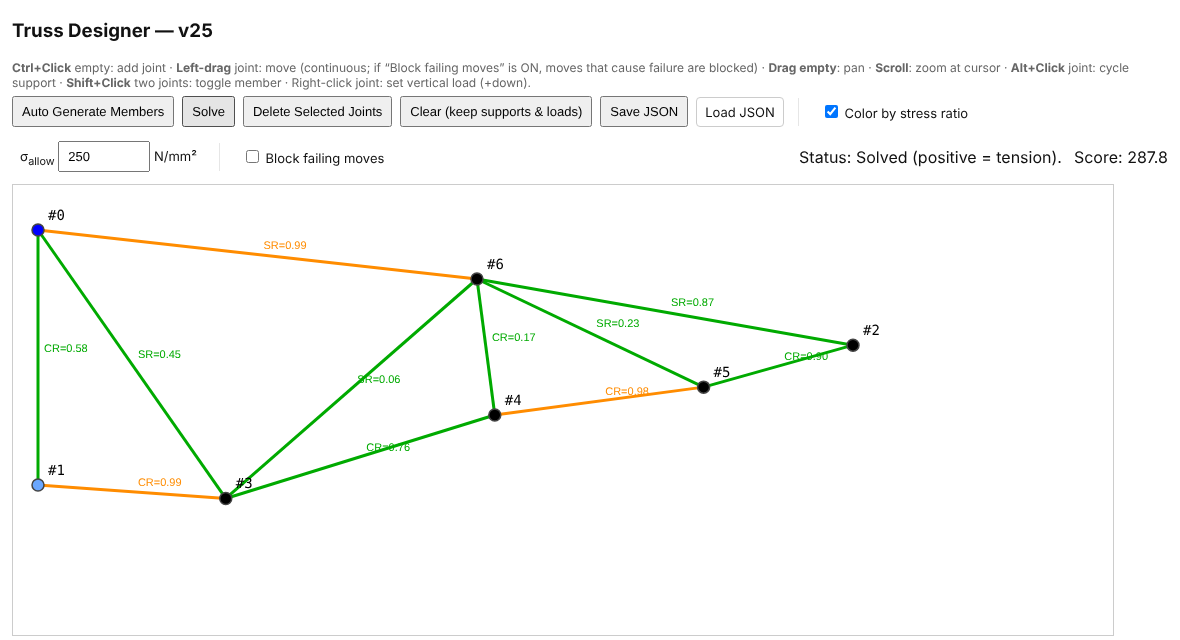
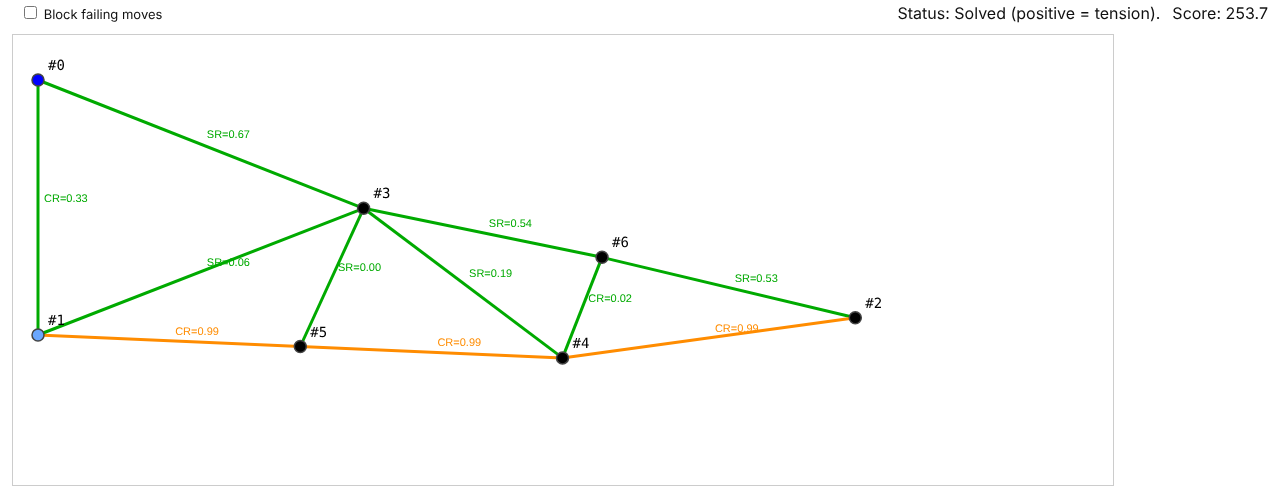
Truss: final design as default, 1.35 kN target; magnetometer: labelled board, remove isolation-amp claim

diff --git a/cantilever-truss-optimiser/src/truss-designer.html b/cantilever-truss-optimiser/src/truss-designer.html
@@ -1058,9 +1058,10 @@
   optRunBtn.onclick=runOptimization;
 
   function seed(){
+    // Default layout: the design we built, truss_model254.json (see models/final-design/).
     const data = {
-      pins: [{"x":25,"y":45,"support":"pin","load":{"x":0,"y":0},"fixX":true,"fixY":true},{"x":25,"y":300,"support":"roller-x","load":{"x":0,"y":0},"fixX":true,"fixY":true},{"x":840,"y":153.41927256375135,"support":null,"load":{"x":0,"y":-2700},"fixX":true,"fixY":false},{"x":306.0114443907691,"y":278.3371528332735,"support":null,"load":{"x":0,"y":0},"fixX":false,"fixY":false},{"x":455.95273056015026,"y":82.24771320986062,"support":null,"load":{"x":0,"y":0},"fixX":false,"fixY":false},{"x":518.6921229997934,"y":221.32338505359513,"support":null,"load":{"x":0,"y":0},"fixX":false,"fixY":false}],
-      members: [{"i":2,"k":5,"t":5},{"i":3,"k":4,"t":1},{"i":0,"k":3,"t":1},{"i":0,"k":1,"t":1},{"i":4,"k":5,"t":1},{"i":1,"k":3,"t":5},{"i":2,"k":4,"t":1},{"i":0,"k":4,"t":1},{"i":3,"k":5,"t":3}]
+      pins: [{"x":25,"y":45,"support":"pin","load":{"x":0,"y":0},"fixX":true,"fixY":true},{"x":25,"y":300,"support":"roller-x","load":{"x":0,"y":0},"fixX":true,"fixY":true},{"x":842.3,"y":282.7961861667314,"support":null,"load":{"x":0,"y":-1350},"fixX":true,"fixY":false},{"x":350.6,"y":173.3,"support":null,"load":{"x":0,"y":0},"fixX":true,"fixY":true},{"x":549.5,"y":322.9,"support":null,"load":{"x":0,"y":0},"fixX":true,"fixY":true},{"x":287.3,"y":311.5,"support":null,"load":{"x":0,"y":0},"fixX":true,"fixY":true},{"x":589.0240274431598,"y":222.334630075787,"support":null,"load":{"x":0,"y":0},"fixX":false,"fixY":false}],
+      members: [{"i":4,"k":6,"t":1},{"i":3,"k":5,"t":1},{"i":3,"k":6,"t":1},{"i":2,"k":6,"t":1},{"i":0,"k":1,"t":1},{"i":4,"k":5,"t":3},{"i":1,"k":5,"t":3},{"i":2,"k":4,"t":3},{"i":0,"k":3,"t":1},{"i":1,"k":3,"t":1},{"i":4,"k":3,"t":1}]
     };
     pins.length=0;
     for(const p of data.pins){

diff --git a/cantilever-truss-optimiser/README.md b/cantilever-truss-optimiser/README.md
@@ -6,7 +6,7 @@
 
 An open-ended design problem, done in a pair: design and build a light aluminium cantilever truss, in two parallel planes, that carries 2.7 kN over an 800 mm span, then test it to failure. We used a browser-based truss solver and evolutionary optimiser to search for light designs for one plane, built the structure, and tested it to destruction to check the model against reality.
 
-The optimiser designs a single plane for the full 2.7 kN. The real structure has two planes sharing the load, so each plane has a safety factor of 2 and the design failure load of the structure is 5.4 kN.
+The optimiser designs a single plane. Most of the saved candidates were run with the full 2.7 kN on one plane, which would give each of the two planes a safety factor of 2. The design we actually built, `truss_model254.json`, was run at 1.35 kN per plane, which is the two planes sharing 2.7 kN with no margin.
 
 ![The built truss mounted in the test rig; the mass is written on the plate](images/truss-test-rig.jpg)
 
@@ -17,23 +17,25 @@ The optimiser designs a single plane for the full 2.7 kN. The real structure has
 | Span | 800 mm |
 | Structure | Two parallel planes of aluminium angles with steel joint plates |
 | Required load | 2.7 kN in total, shared by the two planes |
-| Design load per plane in the optimiser | 2.7 kN, which gives a safety factor of 2 |
-| Design failure load | 5.4 kN |
+| Design load per plane in the optimiser | 2.7 kN for the candidates in `models/candidates-2700N/`; 1.35 kN for the design we built |
+| Design failure load of the built design | 2.7 kN (no margin) |
 | Mass of the built structure | 0.86 kg |
-| Modelled member mass of the saved candidates | 269 – 304 g per plane |
+| Modelled member mass | 254 g per plane for the built design; 269 – 304 g per plane for the 2.7 kN candidates |
 | **Measured failure load** | **550 N, about 20% of the required load** |
 
 ## The tool
 
-`src/truss-designer.html` is a single-file HTML/JavaScript app with no dependencies. Open it in a browser, use **Load JSON** to open a design from `models/`, then **Solve** or **Optimize**.
+`src/truss-designer.html` is a single-file HTML/JavaScript app with no dependencies. Open it in a browser and it starts with the design we built; use **Load JSON** to open another design from `models/`, then **Solve** or **Optimize**.
 
-![The designer showing one saved candidate: green members are below 95% of their limit and orange members are within 5% of it](images/designer-example.png)
+![The designer showing the design we built, truss_model254: green members are below 95% of their limit and orange members are within 5% of it](images/designer-example.png)
+
+**Why this design.** It was not the best-scoring candidate. We chose it because it was good enough on the model and simpler to build: the bottom chord (joints 1–5–4) and the upper chord (3–6–2) are each close to a straight line, so each could be cut from one length of angle with the intermediate joints fixed along it, instead of every member being a separate piece. Fewer separate members meant fewer joints to drill and align. The price shows in the picture: all three bottom-chord segments sit at 99% of their buckling limit.
 
 - **Solver:** a 2D pin-jointed truss, which is one plane of the structure. Joints, members, supports and the tip load are edited on a canvas. Member forces come from joint equilibrium, solved as a linear system. Members are coloured by stress ratio (tension) or by buckling ratio (compression).
 - **Sections:** five aluminium angle sizes, with cross-section areas from 27.7 to 73.2 mm². Tension is limited to σ_allow (250 N/mm² by default). Compression is limited by a buckling stress read from a slenderness curve (member length divided by section width).
 - **Optimiser:** an evolutionary search over joint positions (Gaussian mutation) and member section sizes, with crossover and elitist selection. Four presets, from Fast to Max, set the population (24 to 64), number of parents, iterations (200 to 5000), mutation sizes and an early-stopping patience.
 - **Objective:** total member mass, plus penalties for exceeding a stress or buckling limit, for members shorter than 100 mm, for joints closer than 50 mm and for crossing members.
-- **Models:** `models/candidates-2700N/` holds the saved single-plane candidates for 2.7 kN. The number in each file name is the modelled member mass in grams, so `truss_model288.json` is a 287.8 g plane. `models/starting-layouts/` holds three simple starting layouts (`tri`, `bibi` and `tribi`).
+- **Models:** `models/final-design/truss_model254.json` is the design we built, run at 1.35 kN per plane. `models/candidates-2700N/` holds the earlier single-plane candidates run at 2.7 kN. The number in each file name is the modelled member mass in grams, so `truss_model288.json` is a 287.8 g plane. `models/starting-layouts/` holds three simple starting layouts (`tri`, `bibi` and `tribi`).
 - `src/truss-multi-viewer.html` shows several saved designs side by side.
 
 ### Who wrote what
@@ -44,9 +46,9 @@ I specified the objective and the evolutionary algorithm. Most of the code was w
 
 The truss **failed by buckling at 550 N**, about 20% of the required load, because it was under-braced. The tool and its saved designs show why the model could not see this:
 
-- **No margin.** The optimiser minimises mass against its own limits, so it pushes members to the edge. Every saved candidate has two to five members at 95% or more of their calculated stress or buckling limit. Any effect the model leaves out is then enough to cause failure.
+- **No margin.** The optimiser minimises mass against its own limits, so it pushes members to the edge. Every saved candidate has two to five members at 95% or more of their calculated stress or buckling limit, and the built design has its whole bottom chord at 99% of the buckling limit. On top of that, the built design was run at 1.35 kN per plane, so the factor of 2 that the earlier candidates carried was gone. Any effect the model leaves out is then enough to cause failure.
 - **One plane only.** The model is a single plane in its own plane. Bracing between the two planes, out-of-plane buckling and joint eccentricity were not modelled, so a design can pass every check in the tool and still be under-braced.
-- **Mass was incomplete.** The objective counts member mass only, with no joint plates, fasteners or bracing. The saved candidates model 269 – 304 g of members per plane, so about 540 – 610 g for two planes. The built structure weighed 0.86 kg, so if it followed one of these candidates, about a third of its mass was never in the objective.
+- **Mass was incomplete.** The objective counts member mass only, with no joint plates, fasteners or bracing. The built design models 254 g of members per plane, about 510 g for two planes. The built structure weighed 0.86 kg, so about 40% of its mass was never in the objective.
 - **Stiffness was never calculated.** The tool has no deflection calculation, so it could not trade strength and weight against stiffness.
 
 ## If I did this again

diff --git a/magnetometer/README.md b/magnetometer/README.md
@@ -12,26 +12,31 @@ An analogue circuit that lights more LEDs as a magnet moves closer to a sensor, 
 
 *Bench test, 7 s clip: the LED row responds as a magnet is moved toward the sensor.*
 
+![The breadboard with its parts labelled](images/magnetometer-board.jpg)
+
+*The circuit on the breadboard. Signal path: sensor (8) → buffer op-amp (7) → comparator array (5), with thresholds from the resistor ladder (4), driving the LED row (6). The LTM8067 module (3) makes isolated ±5 V rails from the USB supply (1), trimmed with the pot (2).*
+
 ## How it works
 
 ```mermaid
 flowchart LR
     A[Magnet] --> B[Magnetic sensor]
-    B --> C[Isolation amplifier]
-    C --> D[Op-amp comparator array]
+    B --> C[Buffer op-amp]
+    C --> D[Comparator array: quad op-amp]
     E[Potential divider: reference thresholds] --> D
     D --> F[LED array]
 ```
 
 1. The magnetic sensor outputs a voltage that changes with field strength.
-2. An isolation amplifier passes that signal on while electrically isolating it from the rest of the circuit.
-3. An array of op-amp comparators compares the signal against a ladder of threshold voltages.
+2. A single op-amp buffers the sensor output so the comparator inputs do not load it.
+3. A quad op-amp, used as four comparators, compares the signal against a ladder of threshold voltages.
 4. A separate potential divider generates the thresholds, so each comparator switches at a different field strength.
 5. As the magnet gets closer, more thresholds are crossed and more LEDs light.
+6. The analogue stages run from ±5 V rails made by an LTM8067 isolated DC/DC module, trimmed with a potentiometer.
 
 ## Skills used
 
-Op-amp circuits, comparators, potential dividers and isolation amplifiers. The project followed a set of guided tasks, which I worked through in LTspice: op-amp characteristics and uses, different diodes, phase behaviour in inductor/capacitor/resistor circuits, and MOSFET characteristics.
+Op-amp circuits (buffers and comparators), potential dividers and an isolated DC/DC supply. The project followed a set of guided tasks, which I worked through in LTspice: op-amp characteristics and uses, different diodes, phase behaviour in inductor/capacitor/resistor circuits, and MOSFET characteristics.
 
 ## What I would do differently
 

diff --git a/abs-gox-hybrid-engine/README.md b/abs-gox-hybrid-engine/README.md
@@ -74,7 +74,7 @@ The notes give three reasons for the O-ring seal failures:
 
 ## Research notes so far
 
-- **Graphite nozzle.** A 1D transient heat-conduction estimate (a semi-infinite solid with a constant surface temperature, with diffusivity falling from about 80 mm²/s at 300 K to about 8 mm²/s at 2700 K) says the graphite nozzle itself should survive the 5 s burn, with some corrosion, but the housing around it would not. The estimate is crude. It overestimates, because it treats the wall as a flat semi-infinite solid at a high, constant surface temperature, and it underestimates, because it covers only the throat and not the thinner wall of the rest of the nozzle. The open question is how to hold and protect the graphite nozzle in the ABS.
+- **Graphite nozzle.** A 1D transient heat-conduction estimate (a semi-infinite solid with a constant surface temperature, with diffusivity falling from about 80 mm²/s at 300 K to about 8 mm²/s at 2700 K) says the graphite nozzle itself should survive the 5 s burn, with some corrosion, but the housing around it would not. The estimate is crude. It overestimates, because it treats the wall as a flat semi-infinite solid at a high, constant surface temperature, and it underestimates, because it covers only the throat and not the thinner wall of the rest of the nozzle. The open question is how to hold and protect the graphite nozzle in the ABS. Yet to decide whether a graphite nozzle is feasible.
 - **ABS limits.** Typical values are a glass transition of about 105 °C, a heat deflection temperature of 80 – 100 °C, and thermal breakdown above about 270 °C.
 - **Nozzle geometry.** A cone is the simplest to make. Erosion in a hot, oxygen-rich flow enlarges the throat and shifts the O/F ratio, and the nozzle should be slightly under-expanded so that erosion does not cause flow separation. The notes suggest a 30 – 45° convergent and 15° divergent cone, with an expansion ratio of about 2 that still needs checking against the sheet's 1.64.
 - **Feed line.** A first check on tubing size: 10 g/s of GOX at 10 bar, with a density of about 13.1 kg/m³, is about 0.76 L/s.

diff --git a/README.md b/README.md
@@ -11,7 +11,7 @@ Second-year Engineering student at the University of Cambridge (Pembroke College
 | [ABS/GOX hybrid engine](abs-gox-hybrid-engine/) | Personal project with my twin brother on a fully 3D-printed ABS hybrid engine sized for 25 N and a 5 s burn, with a printed rig for leak tests | Design stage, with component tests |
 | [Cantilever truss optimiser](cantilever-truss-optimiser/) | Pair project: browser-based truss solver and evolutionary optimiser; the built truss buckled at 550 N | Complete, with post-mortem |
 | [Autonomous guided vehicle (IDP)](agv-idp/) | Won the final competition (1st of 12 teams); project sub-lead, wrote most of the MicroPython on an RP2040 robot | Complete, Nov 2026 |
-| [Magnetometer (IEP)](magnetometer/) | Analogue magnetic-field indicator built from an isolation amplifier and op-amp comparators, with demo clip | Complete |
+| [Magnetometer (IEP)](magnetometer/) | Analogue magnetic-field indicator: sensor, buffer op-amp and a comparator ladder driving LEDs, with demo clip | Complete |
 | [Past-paper practice app](past-paper-app/) | Python/Tkinter app, built with AI assistance, that splits exam PDFs into questions, times attempts and logs scores | Core working; statistics and recommendations in development |
 | [Flood warning system](flood-warning-system/) | Python dataset handling and curve fitting to predict water levels | Complete |
 | [Mars lander](mars-lander/) | C++ and introductory control theory | Complete |
